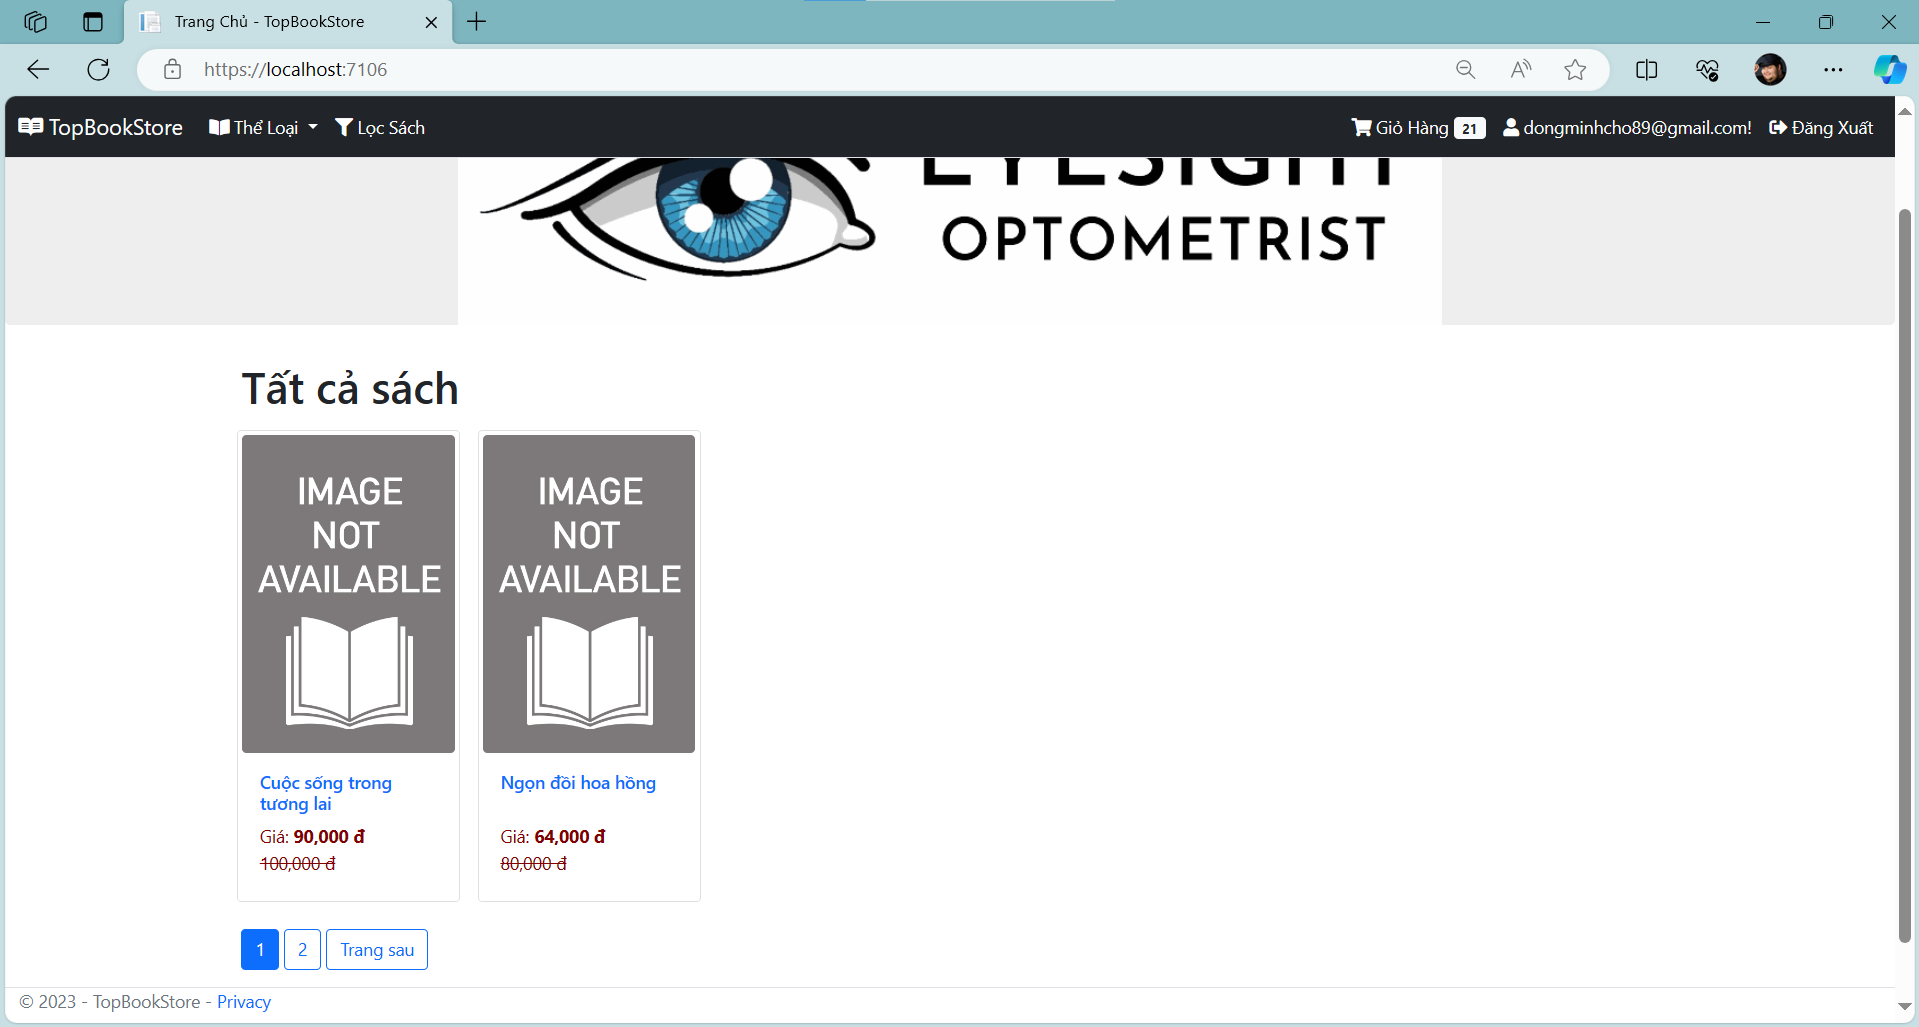
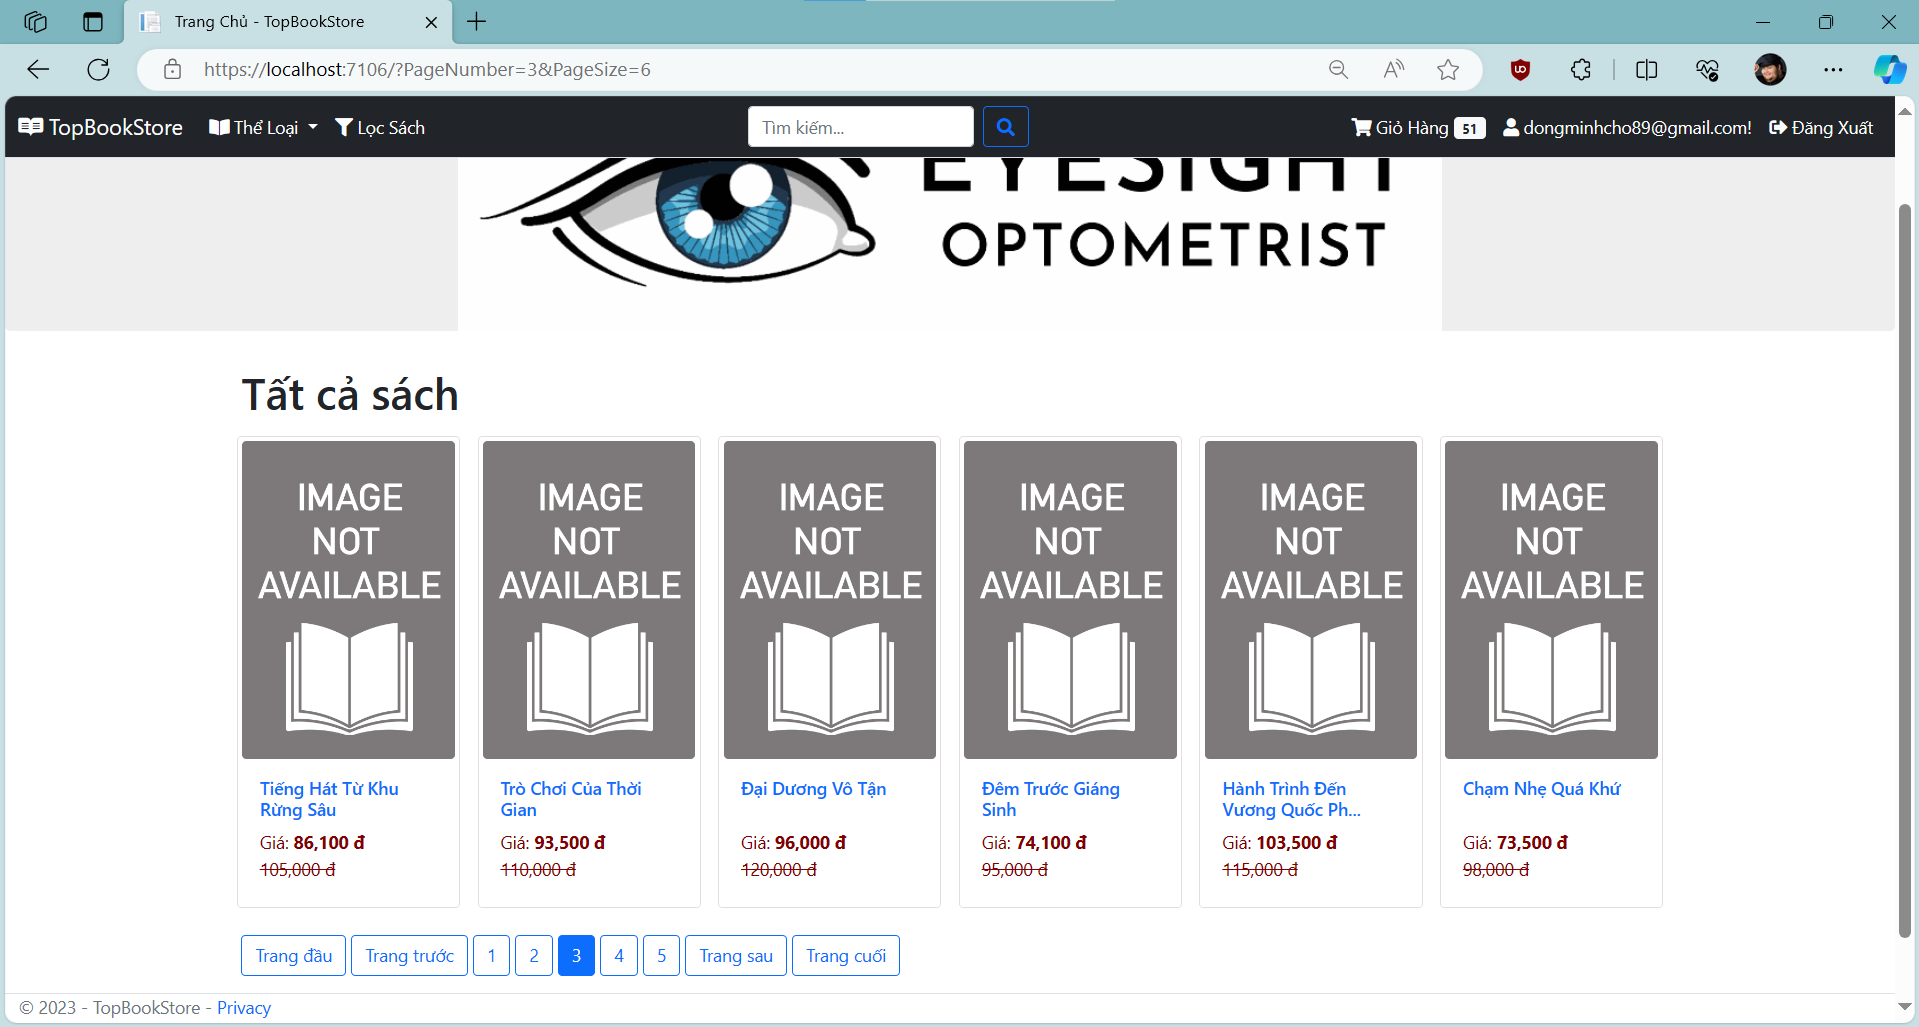
add more books, update views for confirm order, add home page link, add search in navbar

diff --git a/src/TopBookStore.Application/DTOs/GridDTO.cs b/src/TopBookStore.Application/DTOs/GridDTO.cs
@@ -3,7 +3,7 @@ namespace TopBookStore.Application.DTOs;
 public class GridDto
 {
     public int PageNumber { get; set; } = 1;
-    public int PageSize { get; set; } = 2;
+    public int PageSize { get; set; } = 6;
 
     // For filtering category in home index
     public int? Id { get; set; }
